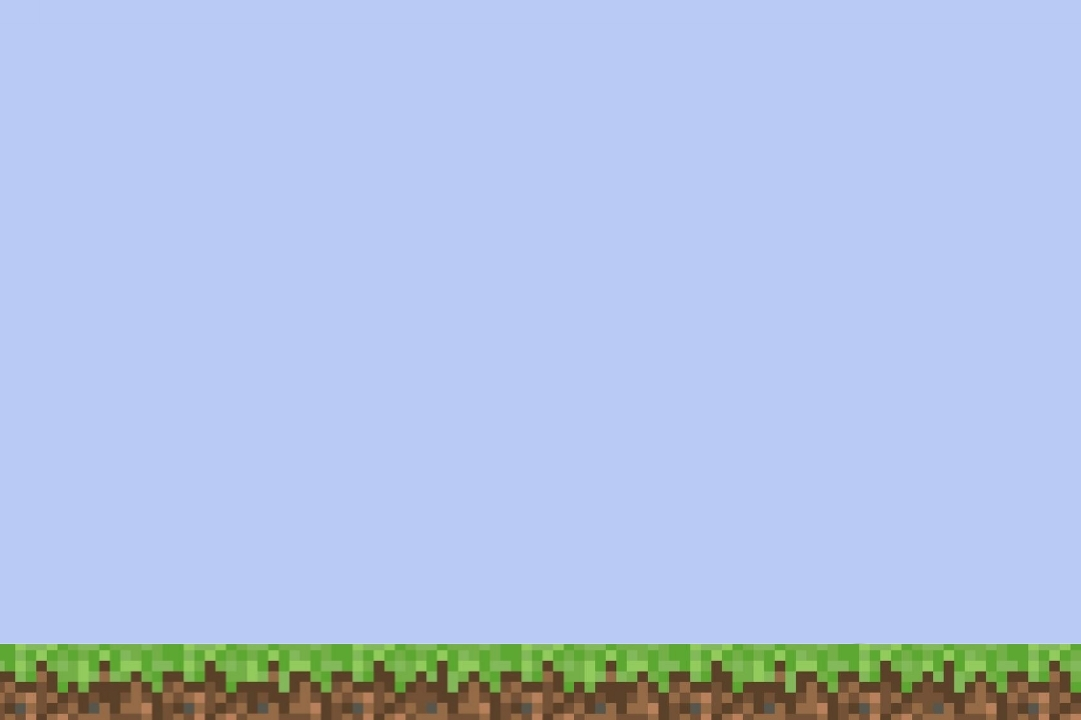
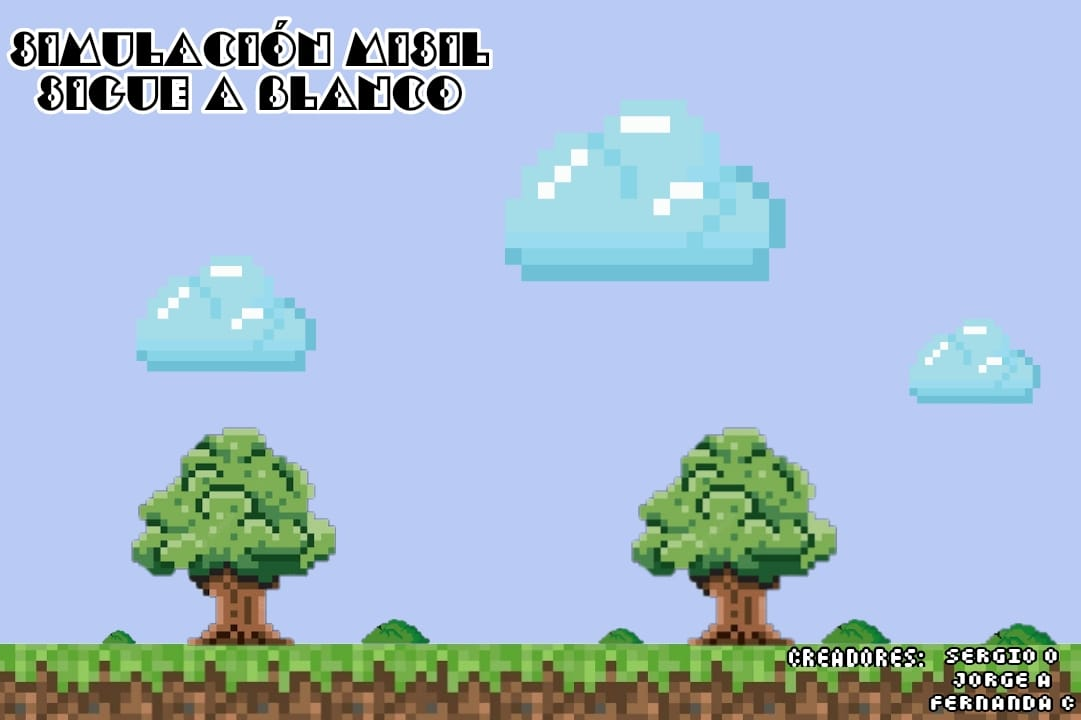
añadi fondo con más objetos en si

diff --git a/Proyecto/src/Inicio/PanelPrincipal.java b/Proyecto/src/Inicio/PanelPrincipal.java
@@ -8,6 +8,7 @@ import java.awt.*;
 import java.awt.event.*;
 import javax.swing.*;
 
+
 public class PanelPrincipal extends JPanel implements KeyListener, ActionListener{
    
     private final Avion av;
@@ -15,6 +16,7 @@ public class PanelPrincipal extends JPanel implements KeyListener, ActionListene
     public Vector2 posicionMouse;
     public int contador;
     int cantMisiles;
+    JButton boton1;
     /**
      * El contructor se encanga de inicializar variavles y definir tamaños
      */
@@ -27,7 +29,7 @@ public class PanelPrincipal extends JPanel implements KeyListener, ActionListene
         contador = 1;       
         setSize(1280, 720);
         Timer t = new Timer(1,this);
-        t.start();    
+        t.start();   
     }
     
     @Override
@@ -70,7 +72,7 @@ public class PanelPrincipal extends JPanel implements KeyListener, ActionListene
        }
        if(e.getExtendedKeyCode() == KeyEvent.VK_SPACE){
            if(contador == 1 && !av.MisilesAvion.estaVacio()){
-                av.MisilesAvion.arrayPosicionMisil(0).velocidad = 5f;
+                av.MisilesAvion.arrayPosicionMisil(0).velocidad = 3f;
                 av.MisilesAvion.arrayPosicionMisil(0).angulo = (float) getRandomIntegerBetweenRange(40, 140);
                 contador--;   
            }

diff --git a/Proyecto/test/Inicio/VentanaTest.java b/Proyecto/test/Inicio/VentanaTest.java
@@ -1,0 +1,45 @@
+/*
+ * Click nbfs://nbhost/SystemFileSystem/Templates/Licenses/license-default.txt to change this license
+ * Click nbfs://nbhost/SystemFileSystem/Templates/UnitTests/JUnit4TestClass.java to edit this template
+ */
+package Inicio;
+
+import org.junit.After;
+import org.junit.AfterClass;
+import org.junit.Before;
+import org.junit.BeforeClass;
+import org.junit.Test;
+import static org.junit.Assert.*;
+
+/**
+ *
+ * @author Sergio Opazo Z
+ */
+public class VentanaTest {
+    
+    public VentanaTest() {
+    }
+    
+    @BeforeClass
+    public static void setUpClass() {
+    }
+    
+    @AfterClass
+    public static void tearDownClass() {
+    }
+    
+    @Before
+    public void setUp() {
+    }
+    
+    @After
+    public void tearDown() {
+    }
+
+    @Test
+    public void testSomeMethod() {
+        // TODO review the generated test code and remove the default call to fail.
+        fail("The test case is a prototype.");
+    }
+    
+}

diff --git a/Proyecto/src/Objetos/Blanco.java b/Proyecto/src/Objetos/Blanco.java
@@ -17,7 +17,7 @@ public class Blanco extends JLabel {
      */
     public Blanco() {
         x = 1265;
-        y = 490;
+        y = 525;
     }
 
     /**
@@ -28,7 +28,7 @@ public class Blanco extends JLabel {
     @Override
     public void paint(Graphics g) {
         ImageIcon Fondo = new ImageIcon(getClass().getResource("/Imagenes/BlancoAuto.png"));
-        g.drawImage(Fondo.getImage(), (int) x, (int) y, 150, 100, this);
+        g.drawImage(Fondo.getImage(), (int) x, (int) y, 130, 70, this);
     }
 
     /**
@@ -36,14 +36,14 @@ public class Blanco extends JLabel {
      * hacia la izquierda
      */
     public void MoverBlancoIzquierda() {
-        velX = -4f;
+        velX = -2f;
     }
 
     /**
      * Ajusta una velocidad constante del Blanco hacia la derecha
      */
     public void MoverBlancoDerecha() {
-        velX = 4f;
+        velX = 2f;
     }
 
     /**

diff --git a/Proyecto/src/Inicio/Ventana.java b/Proyecto/src/Inicio/Ventana.java
@@ -1,6 +1,7 @@
 package Inicio;
 
 import java.awt.BorderLayout;
+import java.awt.Button;
 import javax.swing.JFrame;
 
 public class Ventana extends JFrame{
@@ -12,7 +13,6 @@ public class Ventana extends JFrame{
      * Contiene todo lo necesario para crear la ventana, con el tamañp definido
      */
     public Ventana() {
-        
         setSize(WIDTH, HEIGHT);
         add(jpanel,BorderLayout.CENTER);
         setLayout(new BorderLayout());

diff --git a/Proyecto/src/Objetos/Misil.java b/Proyecto/src/Objetos/Misil.java
@@ -39,7 +39,7 @@ public class Misil{
      */
     public void paint(Graphics g){
         g.setColor(Color.black);
-        g.drawOval((int) (x - radio), (int) (y - radio), (int) radio * 2, (int) radio * 2);
+        //g.drawOval((int) (x - radio), (int) (y - radio), (int) radio * 2, (int) radio * 2);
         Polygon poly = new Polygon();
       
         Point p = Angular.generaPunto((int)x, (int)y, t * 2, -angulo);
